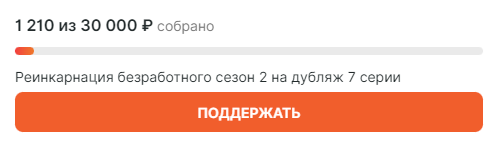
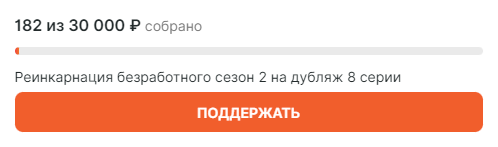
update

diff --git a/mli/mushoku-tensei-ii-isekai-ittara-honki-dasu.html b/mli/mushoku-tensei-ii-isekai-ittara-honki-dasu.html
@@ -6,13 +6,13 @@
 	<head>
 	<meta charset="utf-8">
 	<meta http-equiv="X-UA-Compatible" content="IE=edge">
-	<title>Реинкарнация безработного: История о приключениях в другом мире 2 / Mushoku Tensei II: Isekai Ittara Honki Dasu [07 из 25]</title>
+	<title>Реинкарнация безработного: История о приключениях в другом мире 2 / Mushoku Tensei II: Isekai Ittara Honki Dasu [08 из 25]</title>
 	<meta name="viewport" content="width=device-width, initial-scale=1">
 	<meta name="description" content="Смотреть онлайн аниме Реинкарнация безработного: История о приключениях в другом мире 2 / Перерождение безработного 2 / Mushoku Tensei II: Isekai Ittara Honki Dasu. Прямое продолжение аниме-сериала «Реинкарнация безработного». 34-летний NEET гибнет в ДТП и попадает в магический мир. Вместо того чтобы очнуться полноценным магом, он перевоплощается в младенца, сохранив воспоминания о предыдущей жизни. Еще прежде чем начал ходить, он решил не совершать ошибок прошлого. Так начинается история Рудеуса Грейрата, сына фехтовальщика Пола и целительницы Зенит." />
 	<!--<link rel="import" href="/scripts.html">-->
 
 
-	<meta property="og:title" content="Реинкарнация безработного: История о приключениях в другом мире 2 / Mushoku Tensei II: Isekai Ittara Honki Dasu [07 из 25]"/>
+	<meta property="og:title" content="Реинкарнация безработного: История о приключениях в другом мире 2 / Mushoku Tensei II: Isekai Ittara Honki Dasu [08 из 25]"/>
 	<meta property="og:image" content="/img/poster/mushoku-tensei-ii-isekai-ittara-honki-dasu.jpg"/>
 	<meta property="og:url" content="/mli/mushoku-tensei-ii-isekai-ittara-honki-dasu.html"/>
 	<meta property="og:site_name" content=""/>
@@ -34,11 +34,26 @@
 	
 	<!-- jQuery -->
 	<script src="/js/jquery.min.js"></script><div id="counters"><script>$( "#counters" ).load( "/scripts.html" )</script></div>
+	<style>
+		#linia-pursena{
+			width: 180px;
+			height: 121px;
+			position: absolute;
+			background-image: url(/img/linia-pursena.png);
+			background-size: contain;
+			right: 90px;
+			top: 23px;
+		}
+		@media screen and (max-width: 480px) {
+			#linia-pursena {right: 1px; top: 43px;}
+		}
+	</style>
 
 	</head>
 	<body>
 	<button id="themeBtn"><i class="icon-moon"></i></button>
 	<script src="/js/dark.js"></script>
+	<div id="linia-pursena"></div>
 	<div id="mcrn-offcanvas">
 		<script>
 			$( "#mcrn-offcanvas" ).load( "/menu.html" );
@@ -74,7 +89,7 @@
            </div>
 		
 		   <div class="lines"></div>
-		   <h4 style="margin-bottom: .75rem;">Mushoku Tensei II: Isekai Ittara Honki Dasu [07 из 25]<br><small class="text-muted">Реинкарнация безработного: История о приключениях в другом мире 2</small></h4>
+		   <h4 style="margin-bottom: .75rem;">Mushoku Tensei II: Isekai Ittara Honki Dasu [08 из 25]<br><small class="text-muted">Реинкарнация безработного: История о приключениях в другом мире 2</small></h4>
 		   <div class="lines"></div>
 	  </div>
 	  

diff --git a/embed/mushoku-tensei-ii-isekai-ittara-honki-dasu.html b/embed/mushoku-tensei-ii-isekai-ittara-honki-dasu.html
@@ -26,7 +26,8 @@
 	  {"title":"Эпизод 03","file":"[720p]https://mcrnfs001.000webhostapp.com/?v=661858946,[1080p]https://mcrnfs001.000webhostapp.com/?v=661862772"},
 	  {"title":"Эпизод 04","file":"[720p]https://mcrnfs001.000webhostapp.com/?v=662061488,[1080p]https://mcrnfs001.000webhostapp.com/?v=662064799"},
 	  {"title":"Эпизод 05","file":"[720p]https://mcrnfs001.000webhostapp.com/?v=662355097,[1080p]https://mcrnfs001.000webhostapp.com/?v=662356130"},
-	  {"title":"Эпизод 06","file":"[720p]https://mcrnfs001.000webhostapp.com/?v=662631736,[1080p]https://mcrnfs001.000webhostapp.com/?v=662632205"}
+	  {"title":"Эпизод 06","file":"[720p]https://mcrnfs001.000webhostapp.com/?v=662631736,[1080p]https://mcrnfs001.000webhostapp.com/?v=662632205"},
+	  {"title":"Эпизод 07","file":"[720p]https://mcrnfs001.000webhostapp.com/?v=662956219,[1080p]https://mcrnfs001.000webhostapp.com/?v=662957242"}
    ],
         embed: 'https://macaron.fun/embed/mushoku-tensei-ii-isekai-ittara-honki-dasu.html',
 		url: 'https://macaron.fun/mli/mushoku-tensei-ii-isekai-ittara-honki-dasu.html',

diff --git a/mli/mushoku-tensei-isekai-ittara-honki-dasu.html b/mli/mushoku-tensei-isekai-ittara-honki-dasu.html
@@ -34,11 +34,26 @@
 	
 	<!-- jQuery -->
 	<script src="/js/jquery.min.js"></script><div id="counters"><script>$( "#counters" ).load( "/scripts.html" )</script></div>
+	<style>
+		#eris-ruijerd-rudeus{
+			width: 170px;
+			height: 103px;
+			position: absolute;
+			right: 102px;
+			top: 28px;
+			background-image: url(/img/eris-ruijerd-rudeus.png);
+			background-size: contain;
+		}
+		@media screen and (max-width: 480px) {
+			#eris-ruijerd-rudeus {right: 9px; top: 52px;}
+		}
+	</style>
 
 	</head>
 	<body>
 	<button id="themeBtn"><i class="icon-moon"></i></button>
 	<script src="/js/dark.js"></script>
+	<div id="eris-ruijerd-rudeus"></div>
 	<div id="mcrn-offcanvas">
 		<script>
 			$( "#mcrn-offcanvas" ).load( "/menu.html" );

diff --git a/macaron-reklama.html b/macaron-reklama.html
@@ -4,4 +4,4 @@
     margin-right: auto;
 }
 </style>
-<a href="https://boosty.to/aphoenixvoice/single-payment/donation/449262/target?share=target_link" target="_blank"><img style="width: 100%; border-radius: calc(1.25rem - 1px);" src="/sb.png"></a>
+<a href="https://boosty.to/aphoenixvoice/single-payment/donation/457479/target?share=target_link" target="_blank"><img style="width: 100%; border-radius: calc(1.25rem - 1px);" src="/sb.png"></a>
